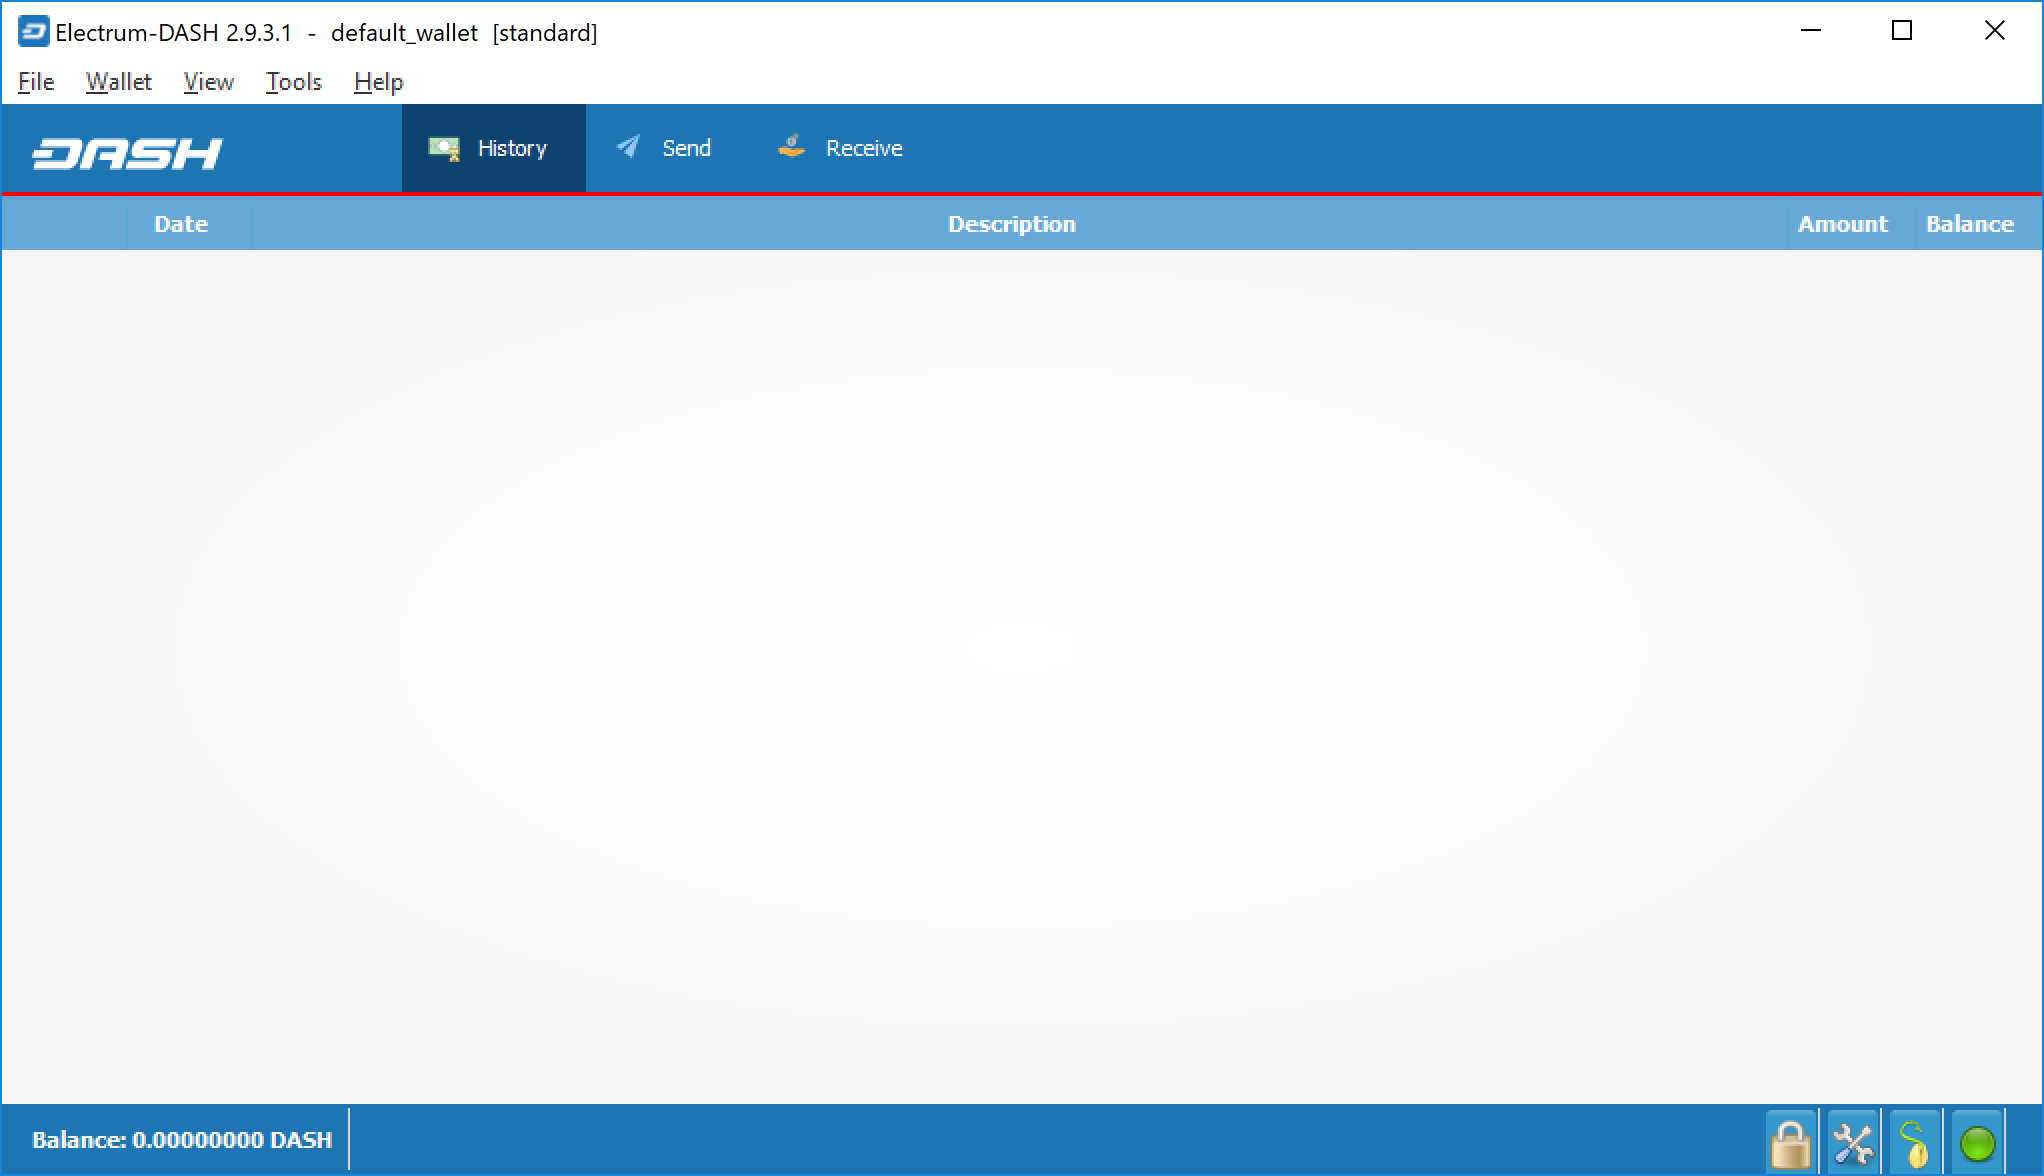
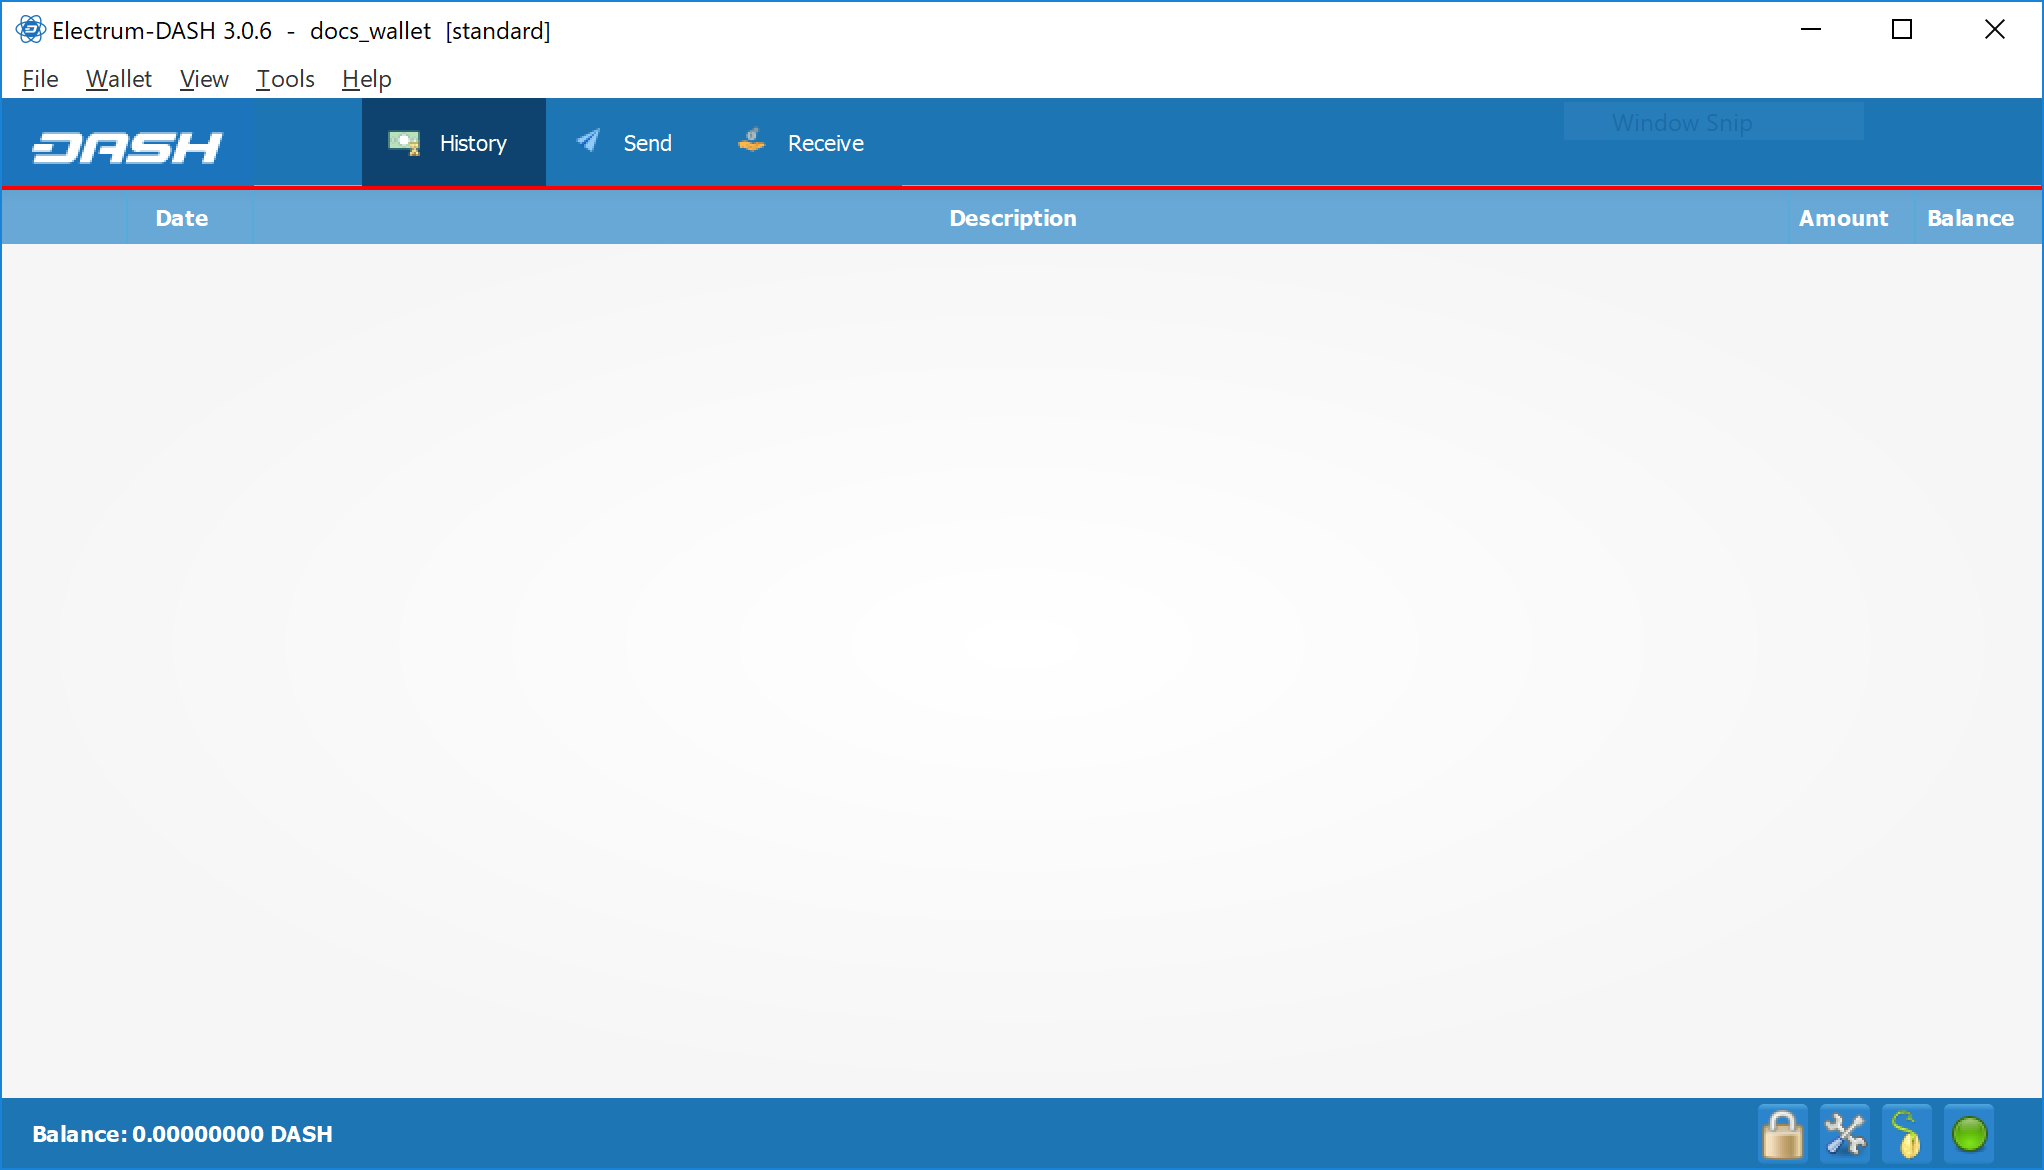
Update Electrum install docs

Changed region(s): [[0.0, 0.0, 1.0, 0.2154], [0.863, 0.9231, 0.9863, 1.0], [0.0, 0.9538, 0.1541, 0.9846]]

diff --git a/wallets/electrum/installation.rst b/wallets/electrum/installation.rst
@@ -33,14 +33,17 @@ Linux
 -----
 
 Dash Electrum for Linux is distributed as a source tarball and depends
-on Python to run. First download the installation package, then enter
-the following commands (changing the version number to match the file
-you downloaded) in the terminal to install Dash Electrum::
+on Python 3 to run. Enter the following commands (changing the version
+number to match the file you downloaded) in the terminal to install Dash
+Electrum::
 
-  sudo apt install python-pip python-qt4 libusb-1.0-0-dev libudev-dev
-  sudo pip install ./Downloads/Electrum-DASH-2.9.4.tar.gz
-  electrum-dash
+  sudo apt install python3-pyqt5 python3-setuptools
+  wget https://github.com/akhavr/electrum-dash/releases/download/3.0.6/Electrum-DASH-3.0.6.tar.gz
+  tar -zxvf Electrum-DASH-3.0.6.tar.gz
+  python3 ./Electrum-DASH/setup.py install
 
+A PPA for Dash Electrum for Linux is available 
+`here <https://launchpad.net/~akhavr/+archive/ubuntu/dash-electrum>`_.
 
 Windows
 -------
